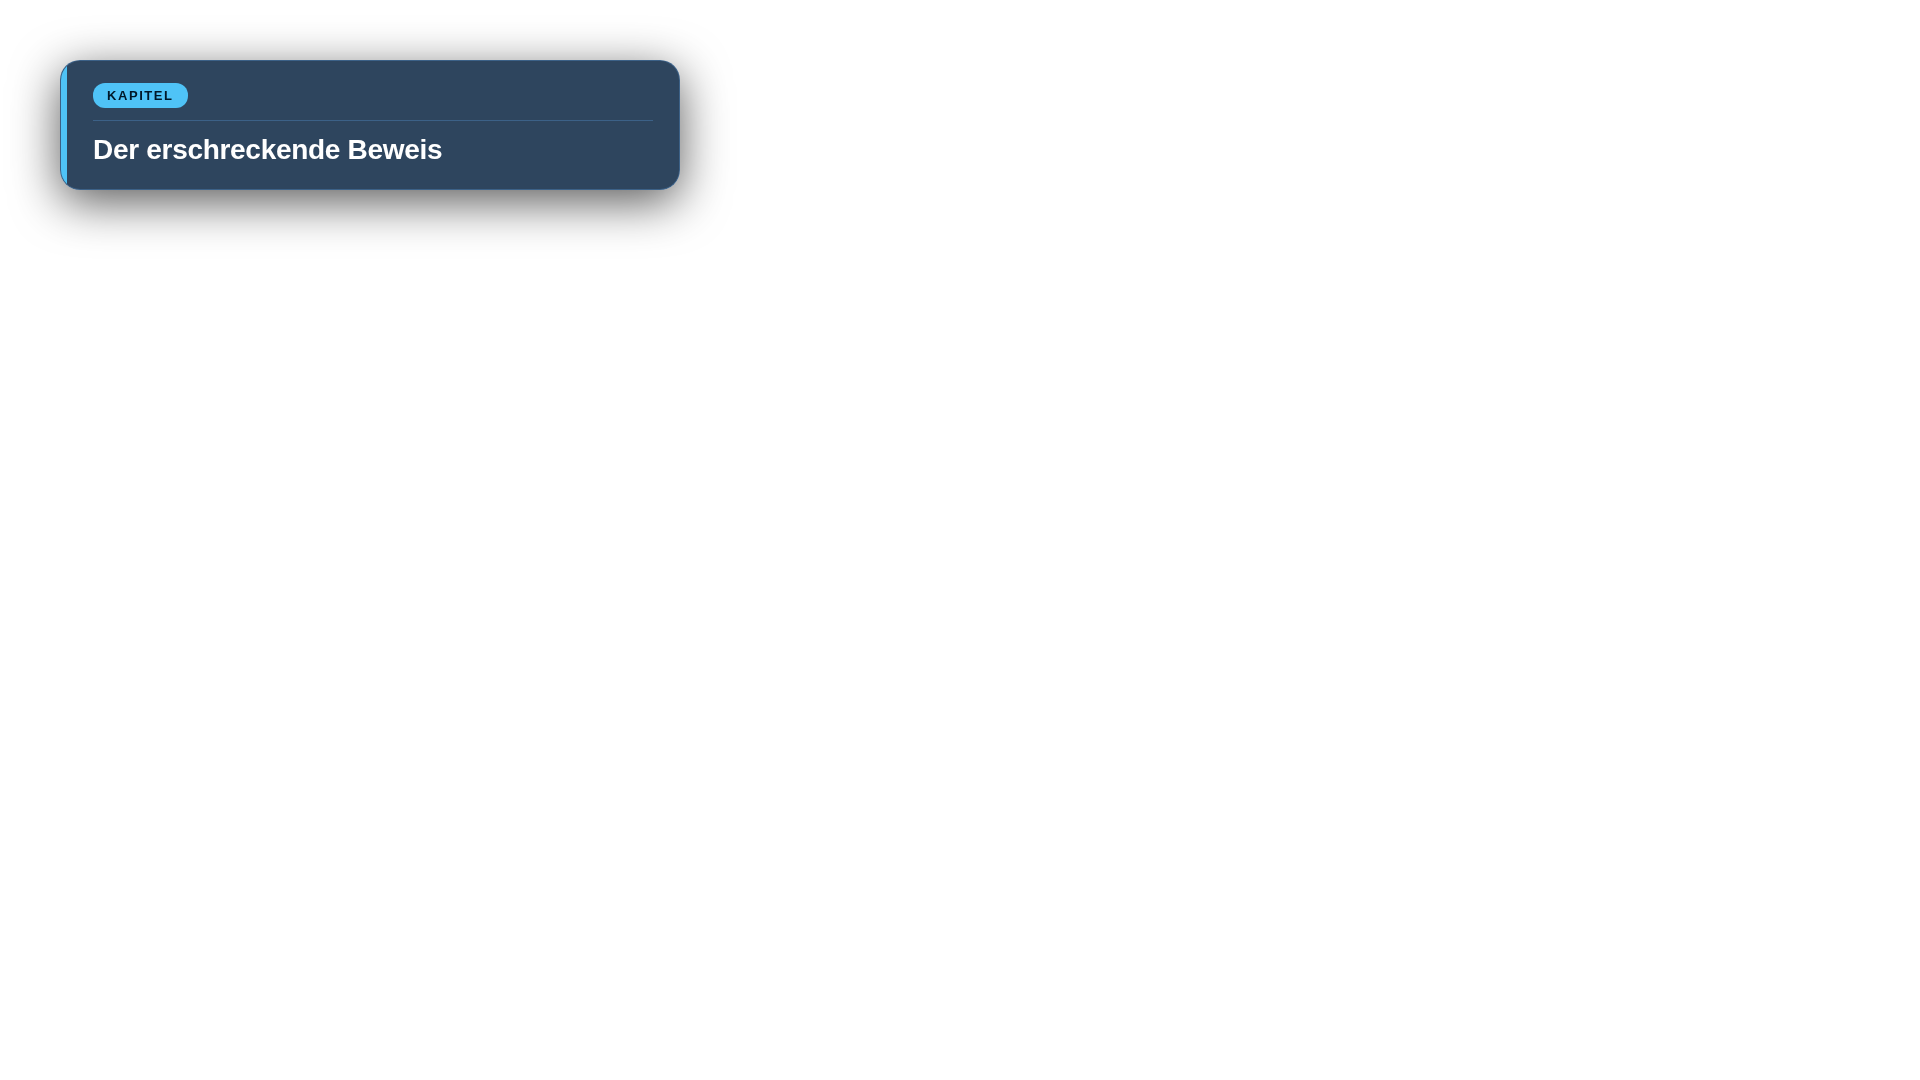
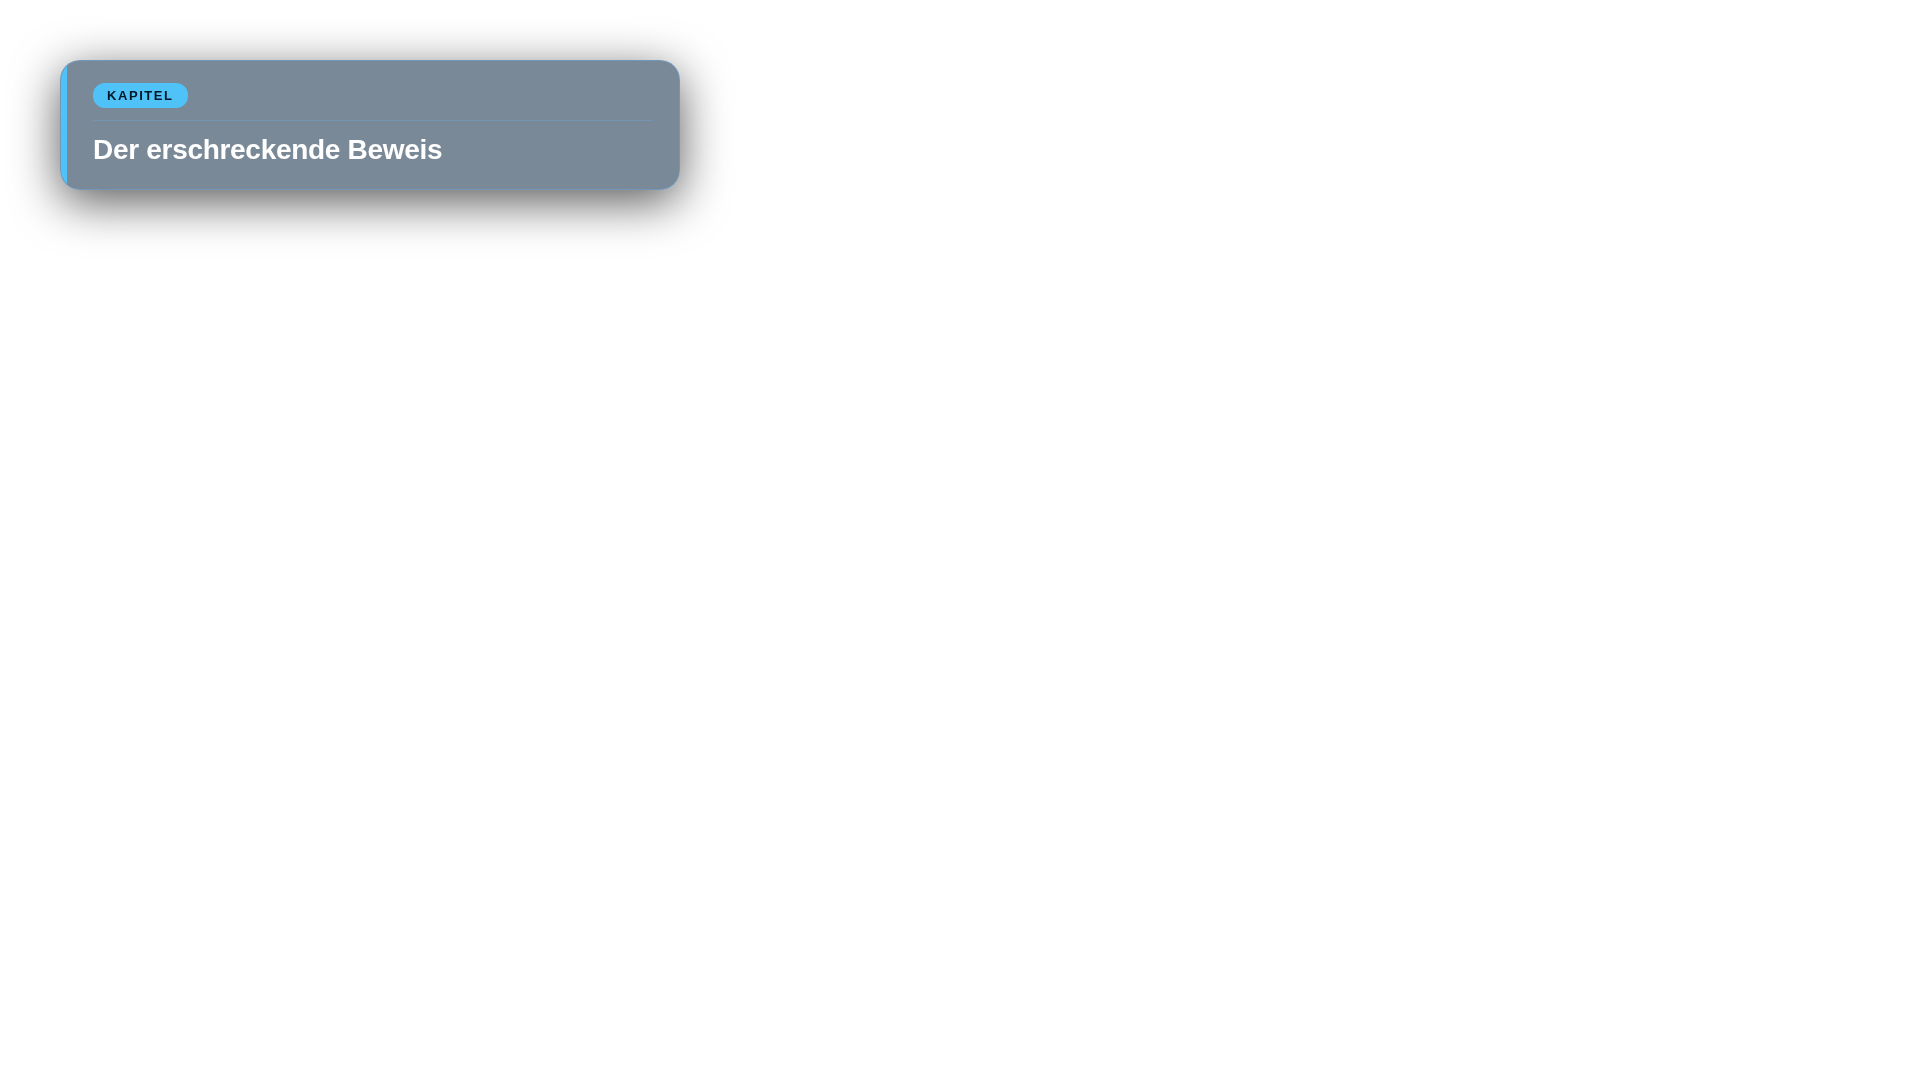
feat(flughafen-de): chapter card tweaks, swoosh alignment, music vol bump
- Chapter cards: opacity 0.82→0.52 (translucent)
- Swoosh fires 100ms early so peak aligns with card entry
- Background music volume 0.14→0.19

https://claude.ai/code/session_01YVKjxmuvXQCEjxJCiHuiUD

Changed region(s): [[0.0312, 0.0306, 0.375, 0.1833]]

diff --git a/projects/flughafen-de/build-video.py b/projects/flughafen-de/build-video.py
@@ -27,8 +27,8 @@ WORDS_JSON = HERE / "word-timings.json"
 SWOOSH     = HERE / "swoosh.mp3"
 MUSIC      = SHARED / "music" / "sleep-music-chris-haugen.mp3"
 
-MUSIC_VOL   = 0.14
-SWOOSH_VOL  = 0.35   # subtle but audible card impact
+MUSIC_VOL   = 0.19
+SWOOSH_VOL  = 0.35
 
 Path(OUT_VIDEO).parent.mkdir(parents=True, exist_ok=True)
 
@@ -132,7 +132,8 @@ af.append(
     + "".join(f"[sw_raw{i}]" for i in range(n_cards))
 )
 for i, card in enumerate(cards):
-    delay_ms = int(card["inTime"] * 1000)
+    # Fire 100ms early so swoosh peak lands on card entry
+    delay_ms = max(0, int((card["inTime"] - 0.1) * 1000))
     af.append(
         f"[sw_raw{i}]atrim=duration=1.2,"
         f"adelay={delay_ms}|{delay_ms},"
